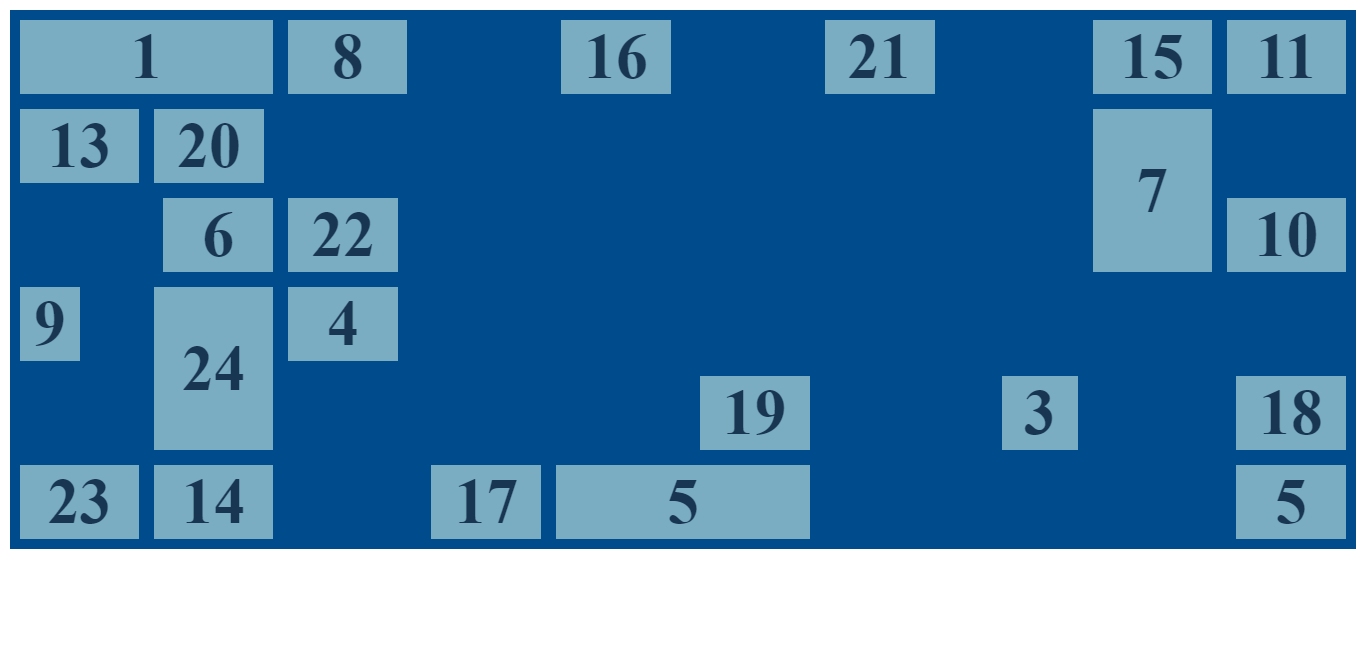
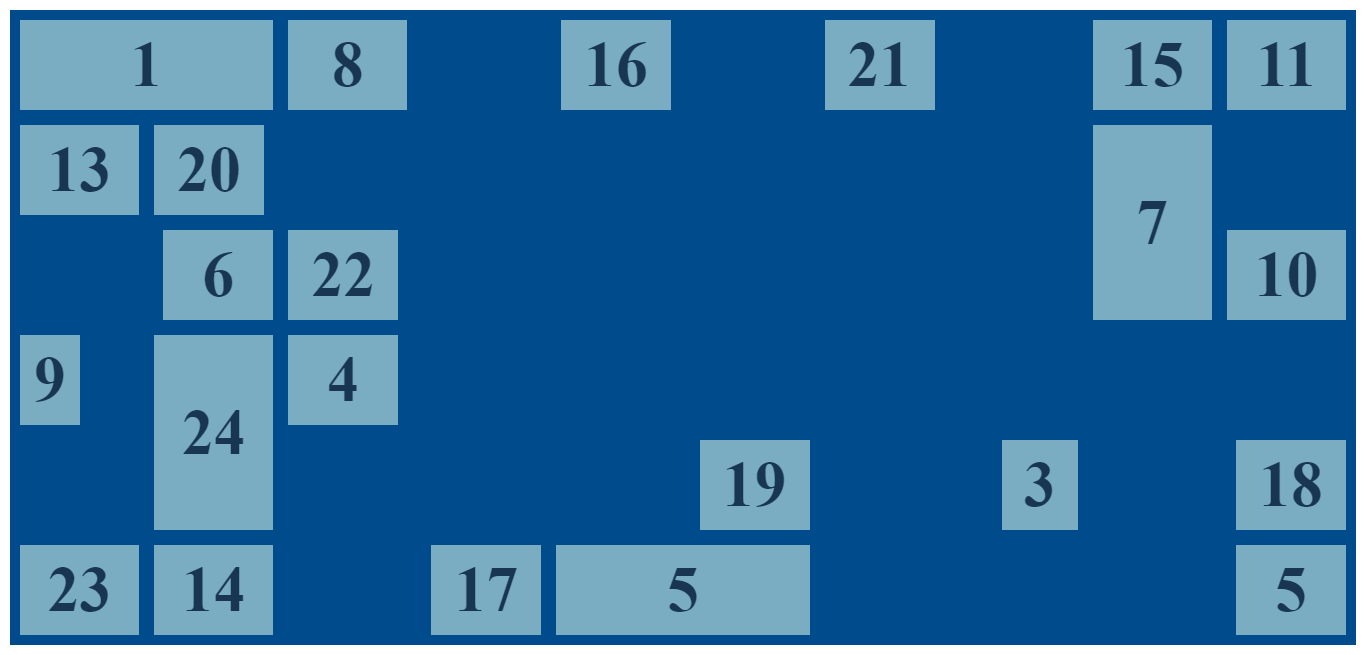
readme added

diff --git a/sass/style.scss b/sass/style.scss
@@ -11,7 +11,7 @@ main {
         margin: 10px;
         padding: 10px;
         background-color: $container-bg-color;
-        // height: 100vh;
+        height: 100vh;
         @include gridValue(110px, 6, 15px);
     }
     .box {

diff --git a/sass/style.css b/sass/style.css
@@ -9,6 +9,7 @@ main .container {
   margin: 10px;
   padding: 10px;
   background-color: #004B8C;
+  height: 100vh;
   display: -ms-grid;
   display: grid;
   -ms-grid-columns: (minmax(110px, 1fr))[auto-fit];
